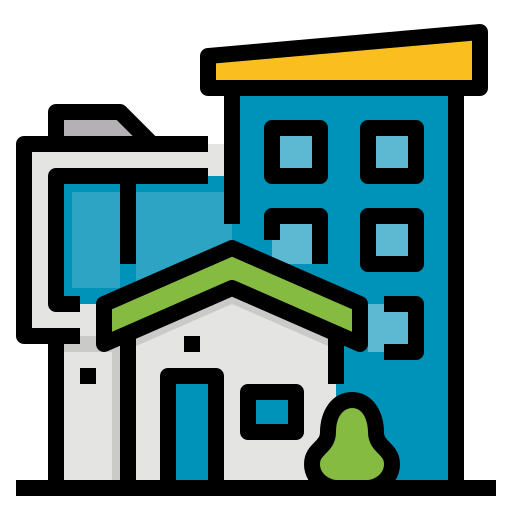
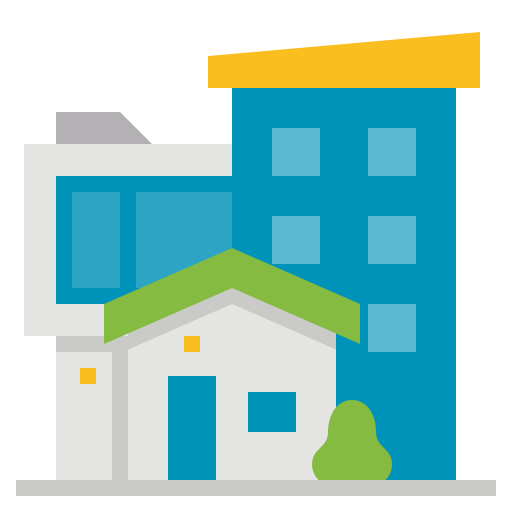
lml

diff --git a/Impact/index.html b/Impact/index.html
@@ -60,7 +60,7 @@
       <a href="index.html" class="logo d-flex align-items-center">
         <!-- Uncomment the line below if you also wish to use an image logo -->
         <!-- <img src="assets/img/logo.png" alt=""> -->
-        <h1 style="font-size:20px;">PerhutaniProperty<span>.</span></h1>
+        <h1 style="font-size:20px;">PerhutaniPro<span>.</span></h1>
       </a>
       <nav id="navbar" class="navbar">
         <ul>
@@ -173,13 +173,13 @@
         <div class="col-lg-6 order-2 order-lg-1 d-flex flex-column justify-content-center text-center text-lg-start">
           <h2>Situs Properti <span>No.1</span></h2>
           <p>PERHUTANI kini hadir sebagai bentuk jawaban atas tantangan kebutuhan properti masyarakat di Indonesia.</p>
-          <!-- <div class="d-flex justify-content-center justify-content-lg-start">
-            <a href="#section-header" class="btn-get-started">Layanan kami</a>
+          <div class="d-flex justify-content-center justify-content-lg-start">
+            <a href="#section-header" class="btn-get-started">Get Started</a>
             <a href="https://www.youtube.com/watch?v=jf7C4p7RpXo" class="glightbox btn-watch-video d-flex align-items-center"><i class="bi bi-play-circle"></i><span>Watch Video</span></a>
-          </div> -->
+          </div>
         </div>
         <div class="col-lg-6 order-1 order-lg-2">
-          <img style="margin-left: 120px; " src="assets/img/search.png" class="img-fluid" alt="" data-aos="zoom-out" data-aos-delay="100">
+          <img style="width: 60%; height:90%; margin-left: 100px; " src="assets/img/town.png" class="img-fluid" alt="" data-aos="zoom-out" data-aos-delay="100">
         </div>
       </div>
     </div>
@@ -330,9 +330,9 @@
     <section id="call-to-action" class="call-to-action">
       <div class="container text-center" data-aos="zoom-out">
         <a href="https://www.youtube.com/watch?v=jf7C4p7RpXo" class="glightbox play-btn"></a>
-        <h3>Call To Action</h3>
+        <h3>Perhutani</h3>
         <p> Perhutani konsisten menjalankan bisnis kehutanan dengan prinsip good corporate governance dengan senantiasa mengelola sumber daya hutan sesuai prinsip-prinsip kelestarian.</p>
-        <a class="cta-btn" href="#">Call To Action</a>
+        <a class="cta-btn" href="#">Perhutani</a>
       </div>
     </section><!-- End Call To Action Section -->
 

diff --git a/Impact/reindex.html b/Impact/reindex.html
@@ -126,15 +126,16 @@
           <h2>Situs Properti <span>No.1</span></h2>
           <p>PERHUTANI kini hadir sebagai bentuk jawaban atas tantangan kebutuhan properti masyarakat di Indonesia.</p>
           <div class="d-flex justify-content-center justify-content-lg-start">
-            <a href="" class="btn-get-started">Cari Properti</a>
+            <a href="" class="btn-get-started">Get Started</a>
             <a href="https://www.youtube.com/watch?v=jf7C4p7RpXo" class="glightbox btn-watch-video d-flex align-items-center"><i class="bi bi-play-circle"></i><span>Watch Video</span></a>
           </div>
         </div>
         <div class="col-lg-6 order-1 order-lg-2">
-          <img src="assets/img/hero-img.svg" class="img-fluid" alt="" data-aos="zoom-out" data-aos-delay="100">
+          <img style="width: 60%; height:90%; margin-left: 100px; " src="assets/img/town.png" class="img-fluid" alt="" data-aos="zoom-out" data-aos-delay="100">
         </div>
       </div>
     </div>
+    
 
     <div class="icon-boxes position-relative">
       <div class="container position-relative">
@@ -281,9 +282,9 @@
     <section id="call-to-action" class="call-to-action">
       <div class="container text-center" data-aos="zoom-out">
         <a href="https://www.youtube.com/watch?v=jf7C4p7RpXo" class="glightbox play-btn"></a>
-        <h3>Call To Action</h3>
+        <h3>Perhutani</h3>
         <p> Perhutani konsisten menjalankan bisnis kehutanan dengan prinsip good corporate governance dengan senantiasa mengelola sumber daya hutan sesuai prinsip-prinsip kelestarian.</p>
-        <a class="cta-btn" href="#">Call To Action</a>
+        <a class="cta-btn" href="#">Perhutani</a>
       </div>
     </section> <!--End Call To Action Section -->
 
